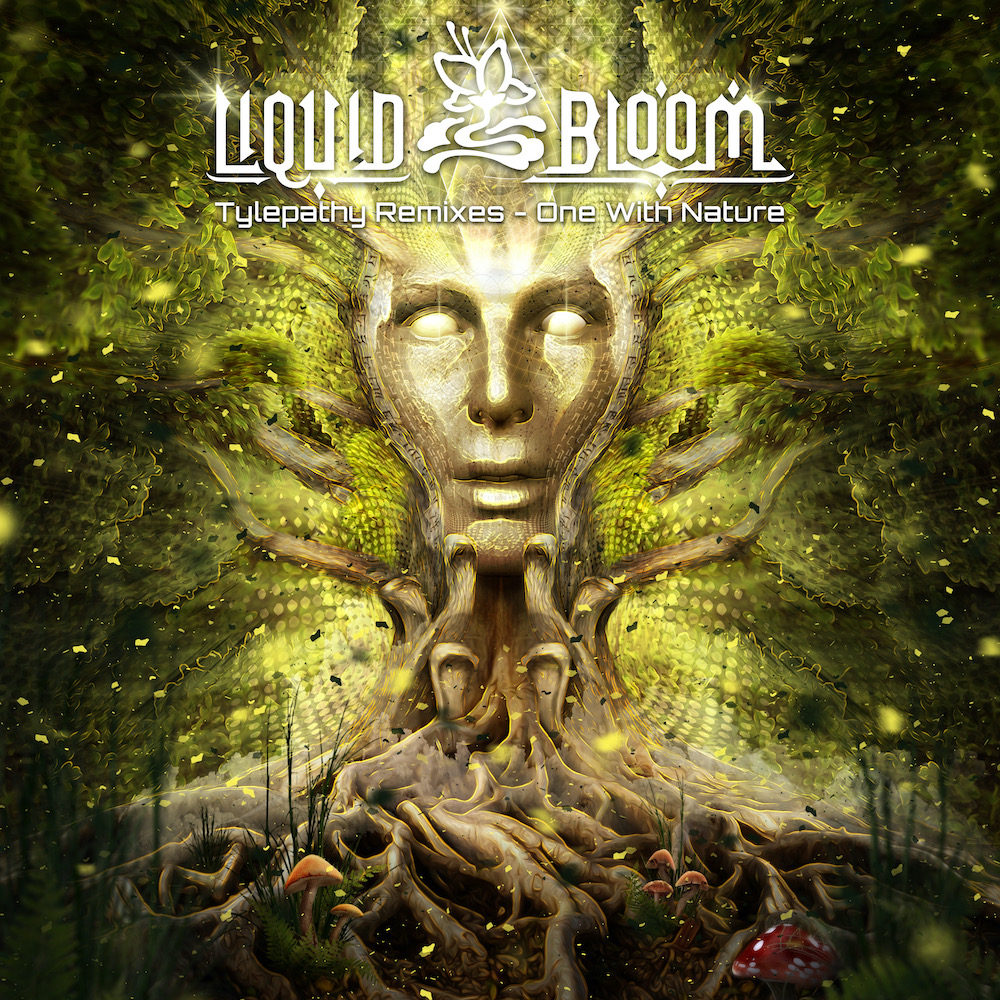
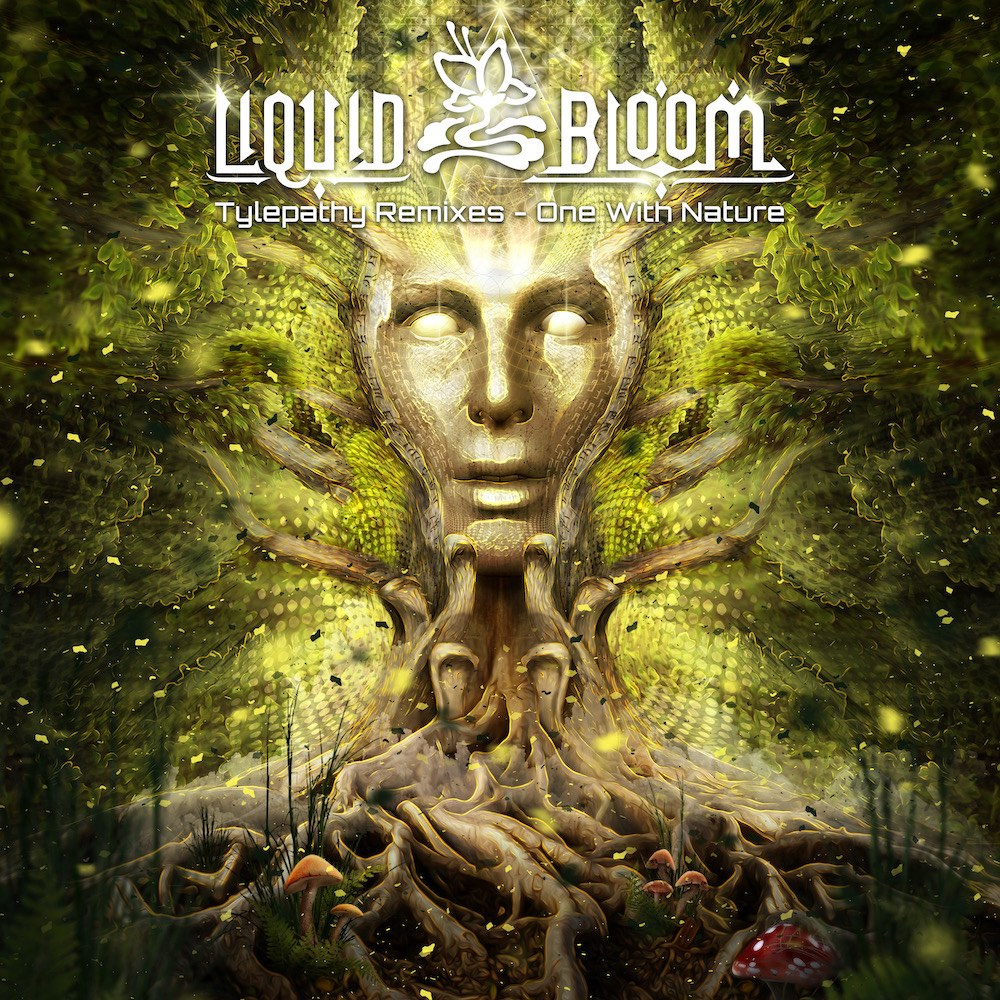
Optimized album images.

diff --git a/music/src/styles.scss b/music/src/styles.scss
@@ -1780,6 +1780,36 @@ body,
 }
 
 @media only screen and (min-width: 768px) {
+
+    // webp
+    // .album-one-player-img {
+    //   background: {
+    //     image: url("./assets/album-one-artwork-medium.webp");
+    //   }
+    // }
+    // .album-two-player-img {
+    //   background: {
+    //     image: url("./assets/album-two-artwork-medium.webp");
+    //   }
+    // }
+    // .album-three-player-img {
+    //   background: {
+    //     image: url("./assets/album-three-artwork-medium.webp");
+    //   }
+    // }
+    // .album-four-player-img {
+    //   background: {
+    //     image: url("./assets/album-four-artwork-medium.webp");
+    //   }
+    // }
+
+    // .album-five-player-img {
+    //   background: {
+    //     image: url("./assets/album-four-artwork-medium.webp");
+    //   }
+    // }
+
+  // jpeg
   .album-one-player-img {
     background: {
       image: url("./assets/album-one-artwork-medium.jpg");
@@ -1833,6 +1863,40 @@ body,
     }
   }
 
+// webp
+// .album-one-bg-img {
+//   background: {
+//     image: url("./assets/album-one-artwork-large-cropped.webp");
+//   }
+// }
+// .album-two-bg-img{
+//   background: {
+//     image: url("./assets/album-two-artwork-large-cropped.webp");
+//   }
+// }
+// .album-three-bg-img{
+//   background: {
+//     image: url("./assets/album-three-artwork-large-cropped.webp");
+//   }
+// }
+// .album-four-bg-img, .music-bg-img-all{
+//   background: {
+//     image: url("./assets/album-four-artwork-large-cropped.webp");
+//   }
+// }
+// .album-five-bg-img{
+//   background: {
+//     image: url("./assets/album-four-artwork-large-cropped.webp");
+//   }
+// }
+// // ABOUT
+// .tylepathy-about-img {
+// background: {
+//   image: url("./assets/about-tylepathy-two.webp");
+// }
+// }
+
+  // jpg
   .album-one-bg-img {
     background: {
       image: url("./assets/album-one-artwork-large-cropped.jpg");
@@ -1918,6 +1982,34 @@ body,
     }
   }
 
+// webp
+  // .album-one-bg-img {
+  //   background: {
+  //     image: url("./assets/album-one-artwork-medium-cropped.webp");
+  //   }
+  // }
+  // .album-two-bg-img{
+  //   background: {
+  //     image: url("./assets/album-two-artwork-medium-cropped.webp");
+  //   }
+  // }
+  // .album-three-bg-img{
+  //   background: {
+  //     image: url("./assets/album-three-artwork-medium-cropped.webp");
+  //   }
+  // }
+  // .album-four-bg-img, .music-bg-img-all{
+  //   background: {
+  //     image: url("./assets/album-four-artwork-medium-cropped.webp");
+  //   }
+  // }
+  // .album-five-bg-img{
+  //   background: {
+  //     image: url("./assets/album-four-artwork-medium-cropped.webp");
+  //   }
+  // }
+
+// jpg
   .album-one-bg-img {
     background: {
       image: url("./assets/album-one-artwork-medium-cropped.jpg");
